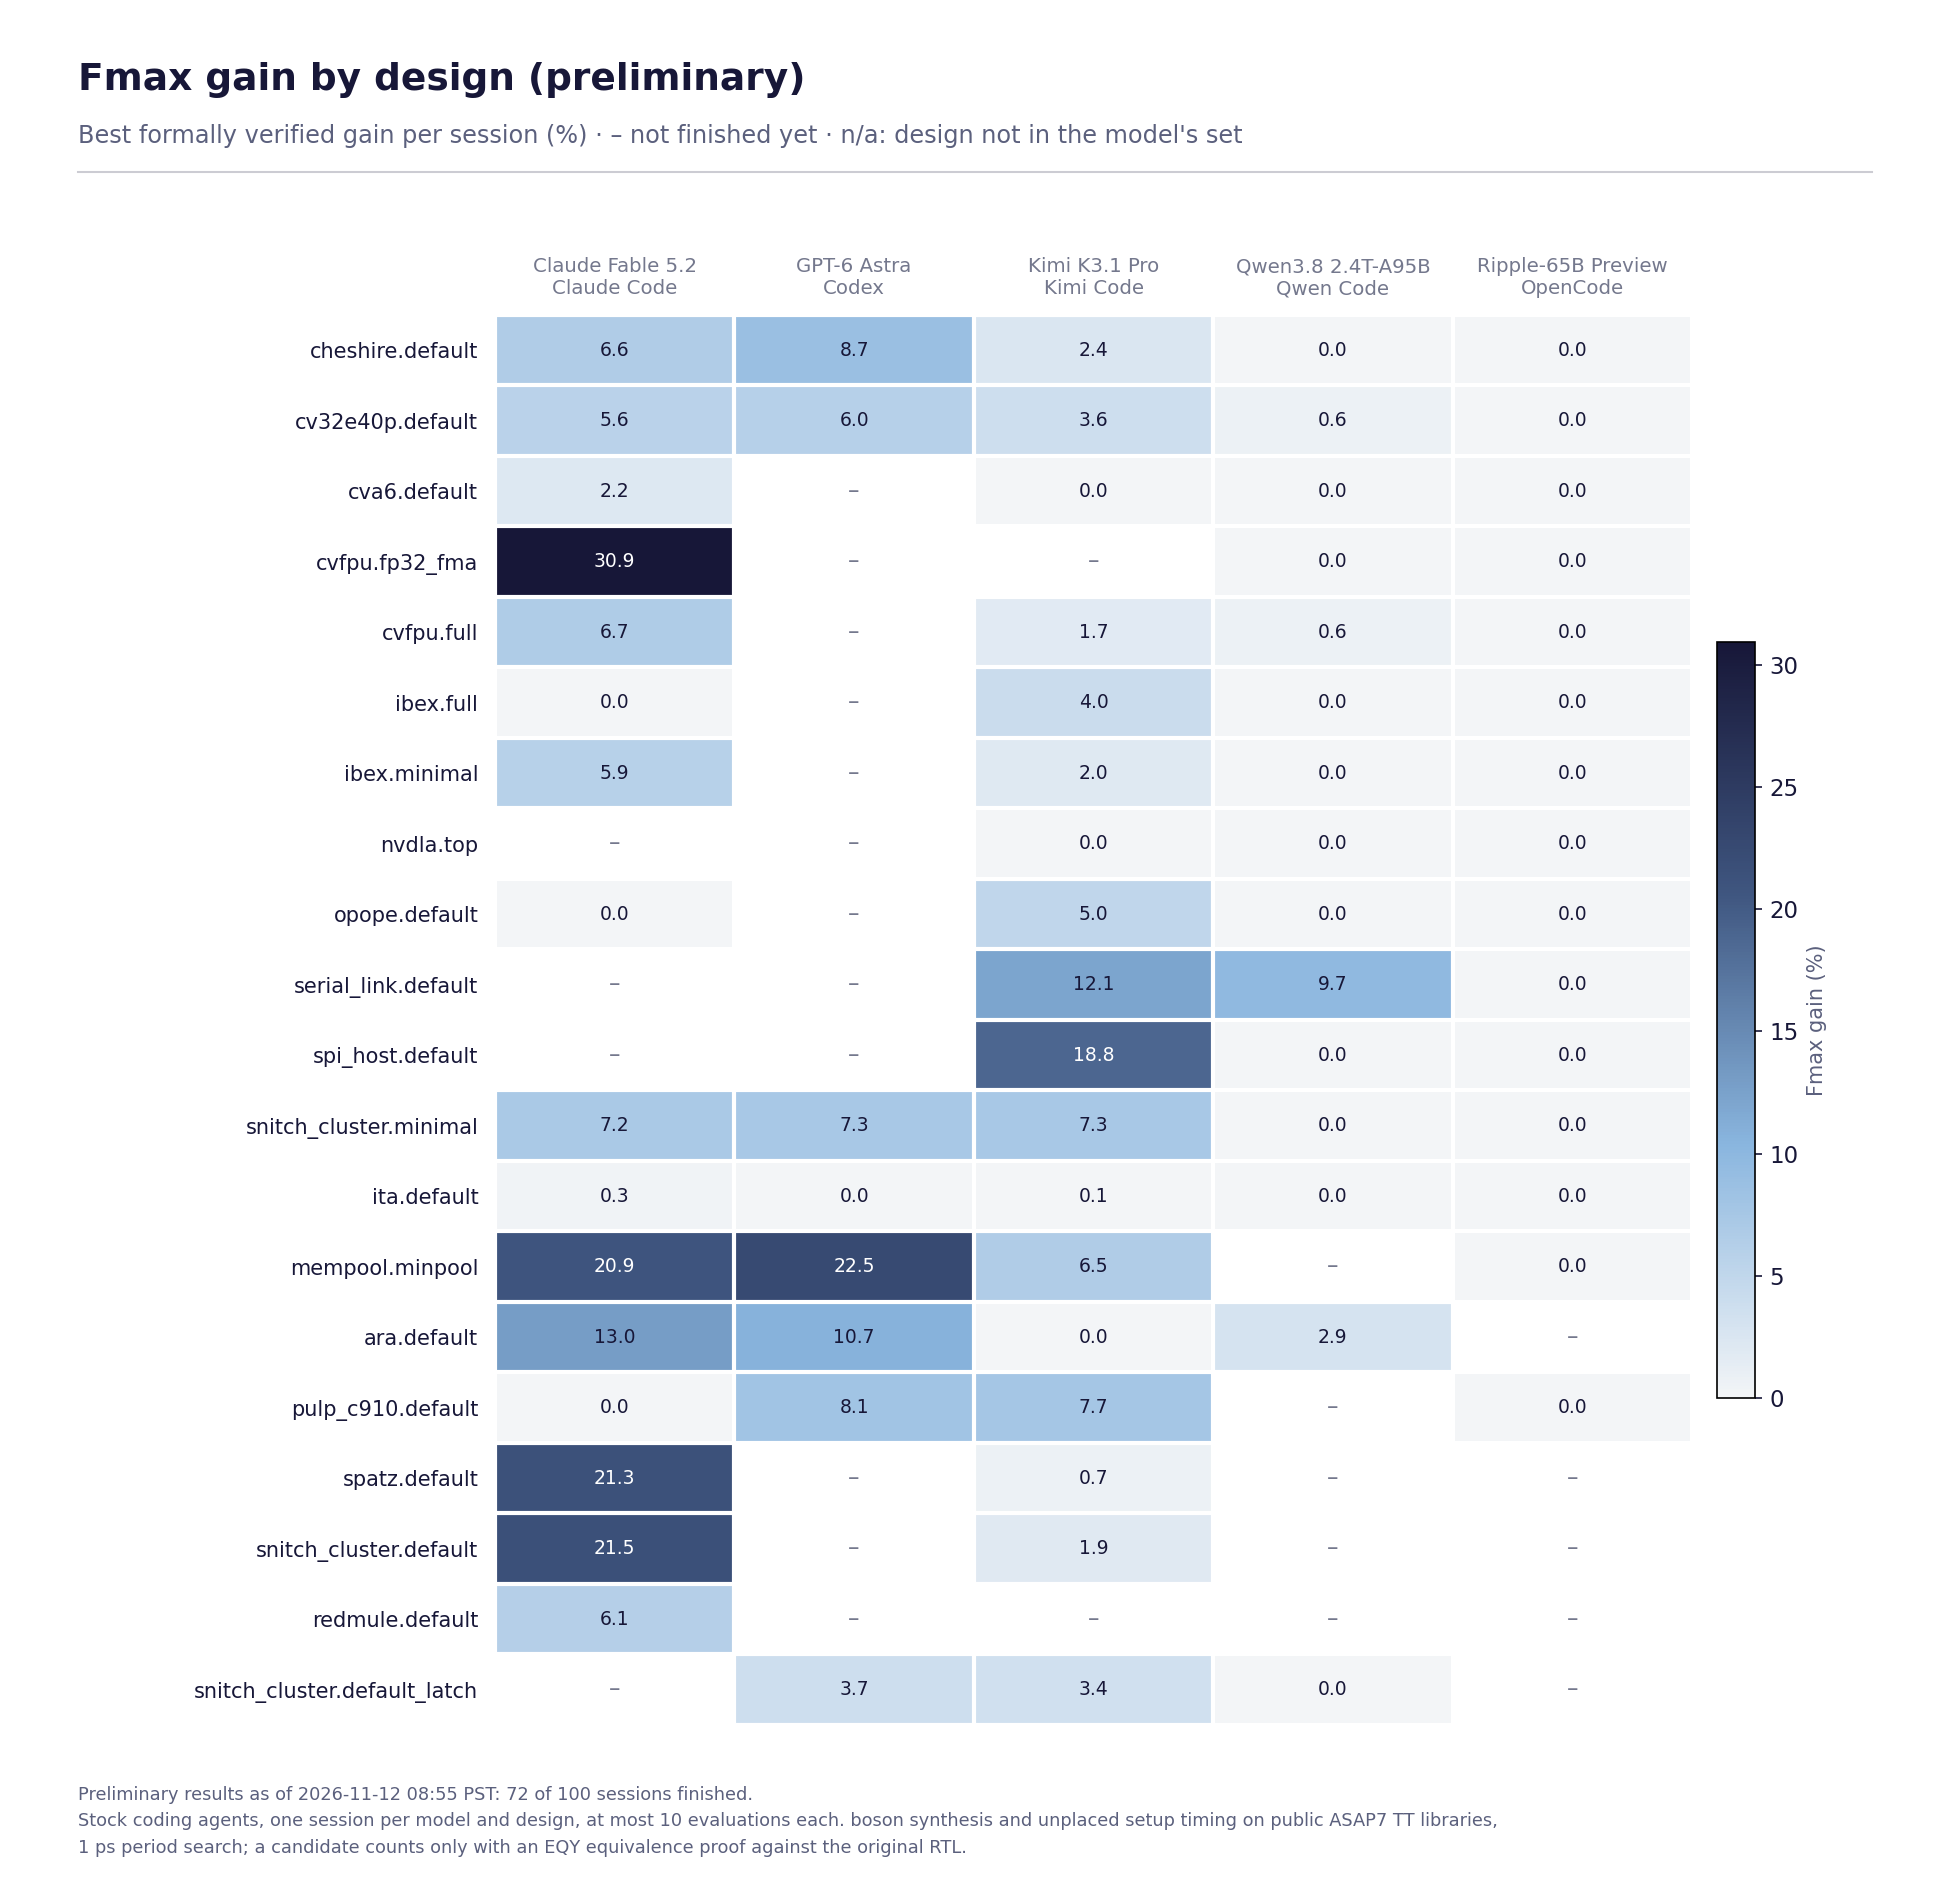
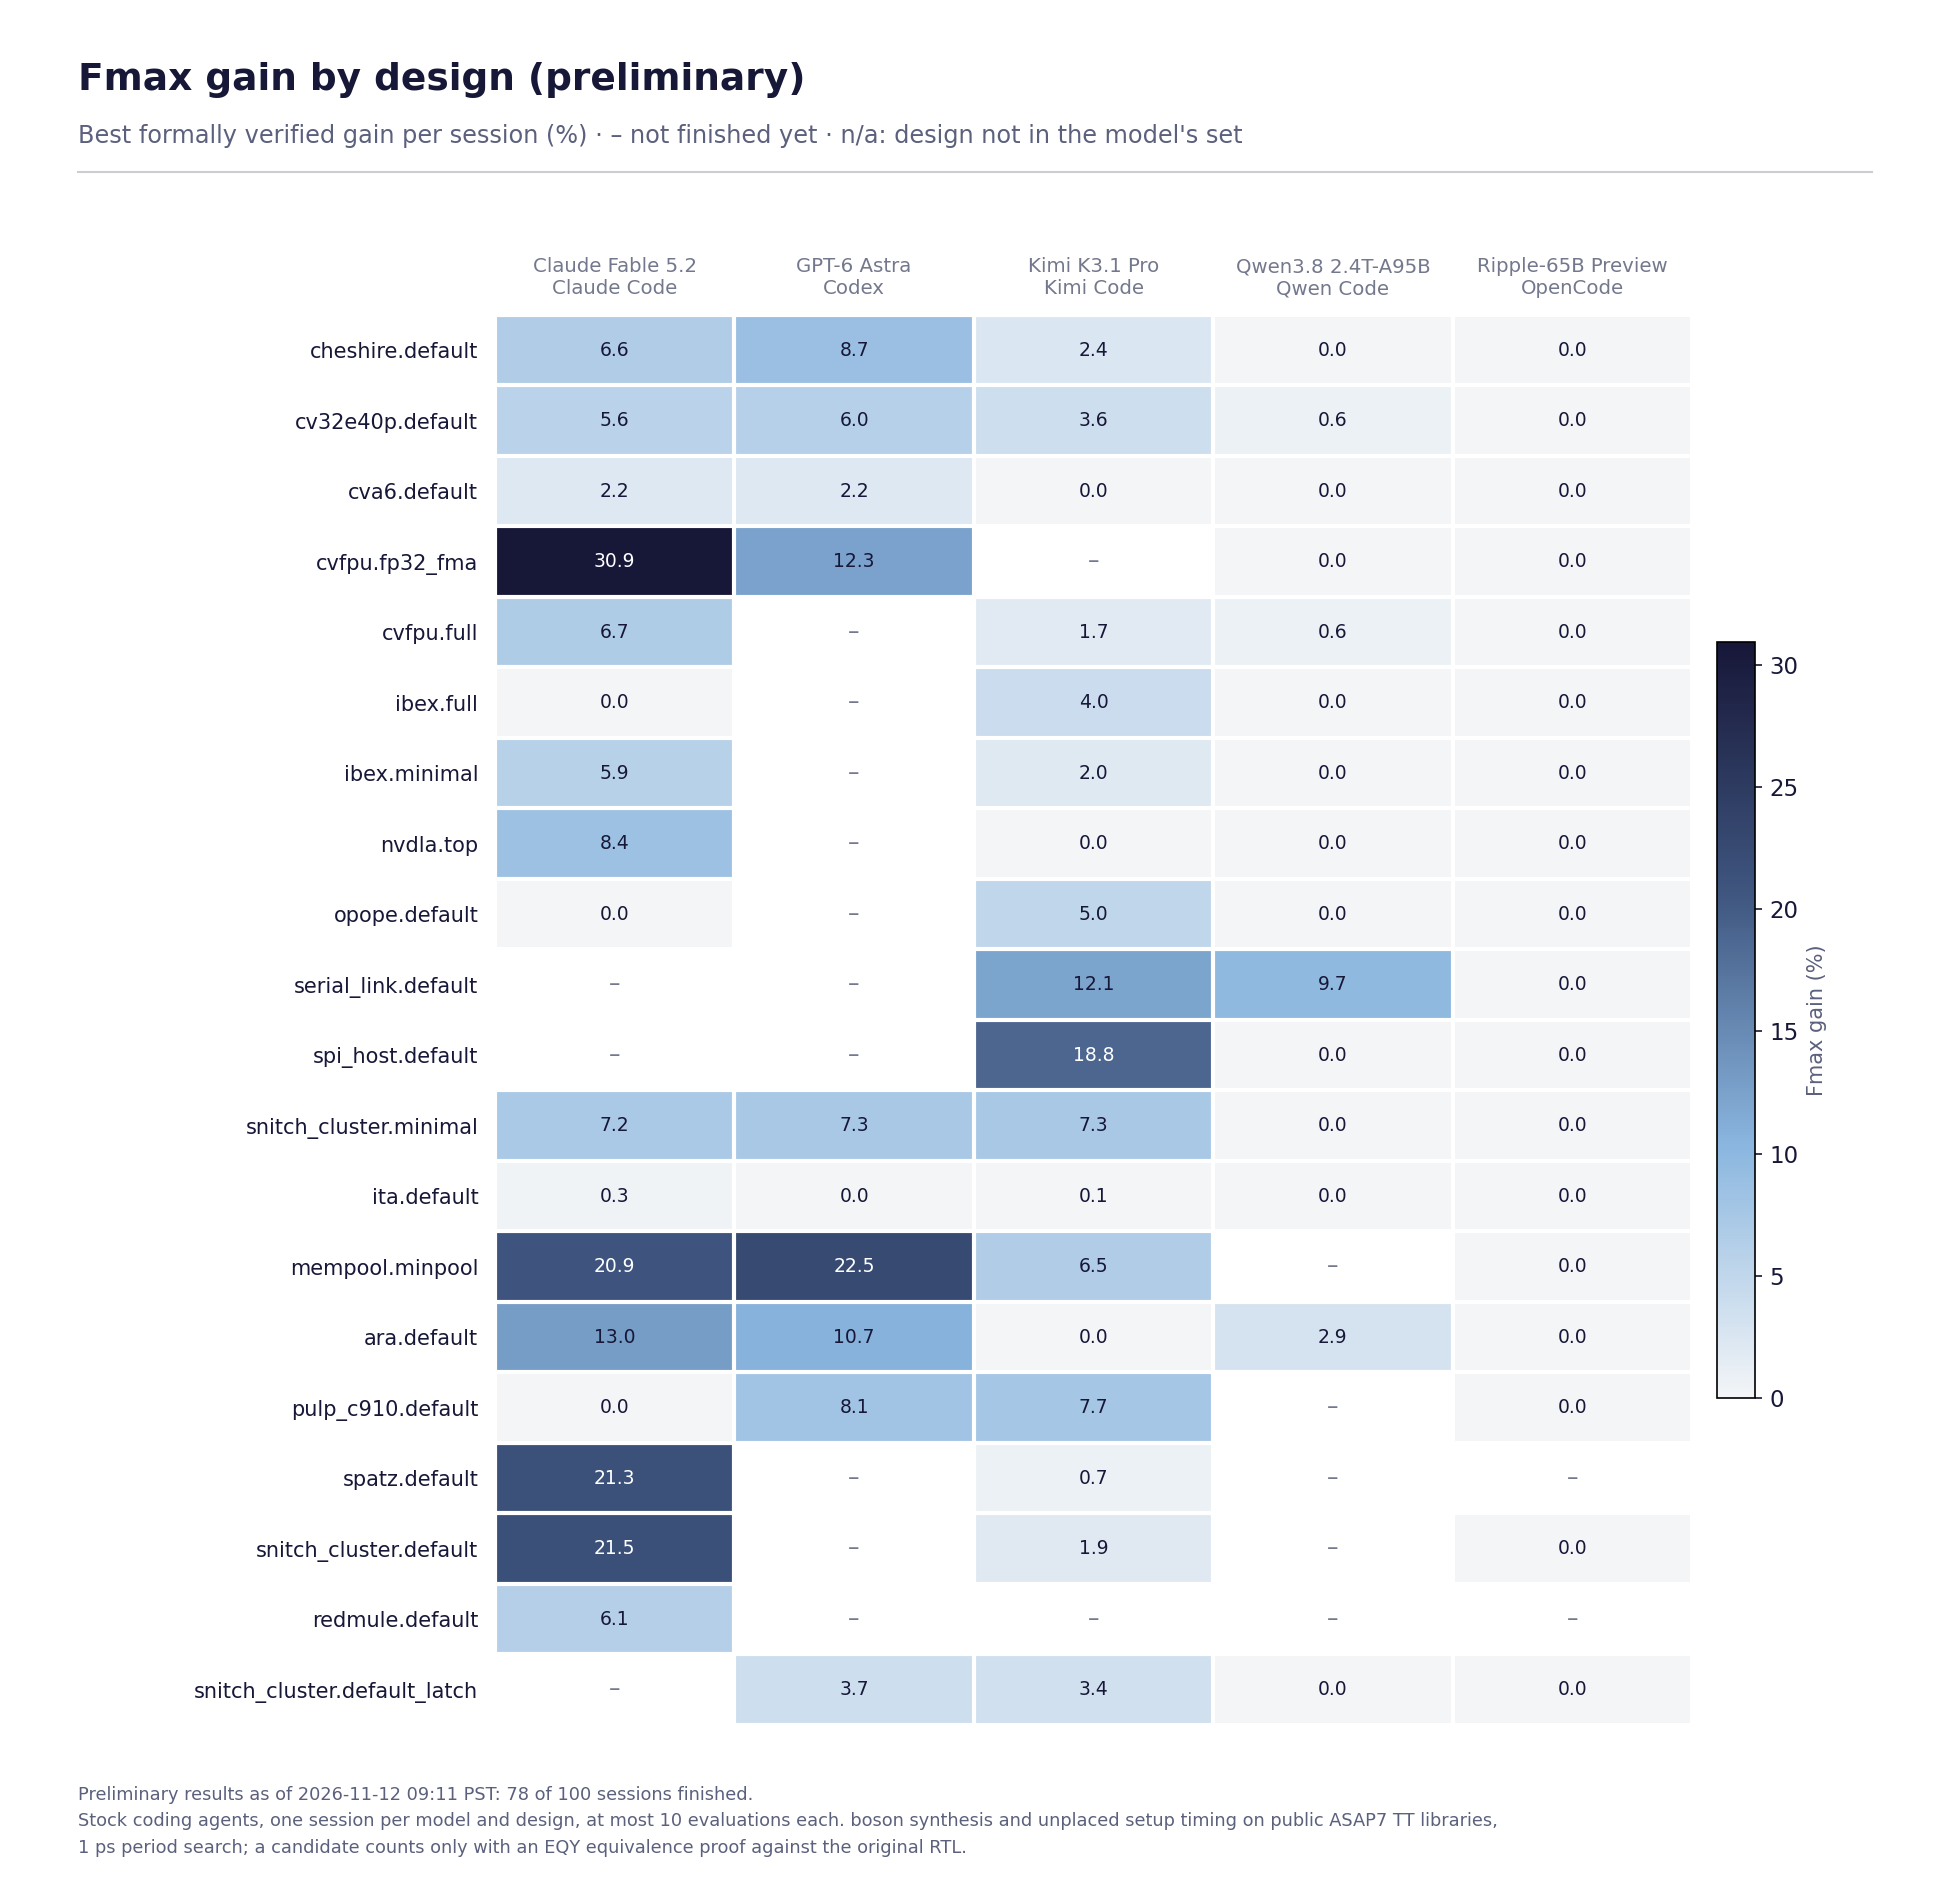
Refresh preliminary results: 78 of 100 sessions finished
Data as of 2026-11-12 09:11 PST.

Changed region(s): [[0.3692, 0.2185, 0.5231, 0.3122], [0.2462, 0.4058, 0.4, 0.4683]]

diff --git a/README.md b/README.md
@@ -21,27 +21,27 @@ accepted only when it is proven equivalent and faster than the session's best so
 ## Results
 
 <!-- results:start -->
-**Status:** 72 of 100 sessions finished (5 models, 20 designs), as of 2026-11-12 08:55 PST. 11 interrupted attempts are excluded from these results while awaiting a valid replacement.
+**Status:** 78 of 100 sessions finished (5 models, 20 designs), as of 2026-11-12 09:11 PST. 11 interrupted attempts are excluded from these results while awaiting a valid replacement.
 
 ### Coverage
 
 | Model | Developer | Harness | Access | Sessions finished |
 |---|---|---|---|---:|
-| Claude Fable 5.2 | Anthropic | Claude Code 2.1.322 | Official CLI signed in to a subscription | 16 / 20 |
-| GPT-6 Astra | OpenAI | Codex 0.154.0 | Official CLI signed in to a subscription | 8 / 20 |
+| Claude Fable 5.2 | Anthropic | Claude Code 2.1.322 | Official CLI signed in to a subscription | 17 / 20 |
+| GPT-6 Astra | OpenAI | Codex 0.154.0 | Official CLI signed in to a subscription | 10 / 20 |
 | Kimi K3.1 Pro | Moonshot AI | Kimi Code 2.5.2 | OpenRouter, pinned to Moonshot AI's own endpoint (MXFP4), fallbacks disabled | 18 / 20 |
 | Qwen3.8 2.4T-A95B | Qwen (Alibaba) | Qwen Code 0.27.1 | OpenRouter, one pinned provider (SiliconFlow, FP8) | 15 / 20 |
-| Ripple-65B Preview | Ricursive AI | OpenCode 1.19.5 | Self-hosted (SGLang 0.5.19, BF16) for its first 15 designs; OpenRouter pinned to PrimeIntellect (BF16) for later sessions | 15 / 20 |
+| Ripple-65B Preview | Ricursive AI | OpenCode 1.19.5 | Self-hosted (SGLang 0.5.19, BF16) for its first 15 designs; OpenRouter pinned to PrimeIntellect (BF16) for later sessions | 18 / 20 |
 
 ### Results by model
 
 | Model | Harness | Designs finished | Fmax gain (geomean) | Designs improved | Mean evaluations | Candidates not proven |
 |---|---|---:|---:|---:|---:|---:|
-| Claude Fable 5.2 | Claude Code | 16 / 20 | +8.90% | 13 / 16 | 4.7 | 39% (29 / 75) |
-| GPT-6 Astra | Codex | 8 / 20 | +8.21% | 7 / 8 | 7.8 | 31% (19 / 62) |
+| Claude Fable 5.2 | Claude Code | 17 / 20 | +8.87% | 14 / 17 | 4.8 | 41% (33 / 81) |
+| GPT-6 Astra | Codex | 10 / 20 | +8.00% | 9 / 10 | 8.2 | 27% (22 / 82) |
 | Kimi K3.1 Pro | Kimi Code | 18 / 20 | +4.20% | 15 / 18 | 5.7 | 59% (61 / 103) |
 | Qwen3.8 2.4T-A95B | Qwen Code | 15 / 20 | +0.89% | 4 / 15 | 1.4 | 76% (16 / 21) |
-| Ripple-65B Preview | OpenCode | 15 / 20 | +0.00% | 0 / 15 | 0.2 | 100% (3 / 3) |
+| Ripple-65B Preview | OpenCode | 18 / 20 | +0.00% | 0 / 18 | 0.2 | 100% (3 / 3) |
 
 Fmax gain is the geometric mean of each finished session's Fmax ratio (baseline period / best accepted period) over the designs that model has finished. Models have finished different designs, so this order is provisional, not a like-for-like ranking, until every model covers the same designs. "Candidates not proven" is the share of evaluations whose equivalence proof did not pass.
 
@@ -51,34 +51,33 @@ Fmax gain is the geometric mean of each finished session's Fmax ratio (baseline 
 |---|---:|---:|---:|---:|---|
 | `cheshire.default` | 1.047 | 5 | 0.963 | +8.72% | GPT-6 Astra |
 | `cv32e40p.default` | 0.657 | 5 | 0.620 | +5.97% | GPT-6 Astra |
-| `cva6.default` | 1.038 | 4 | 1.016 | +2.17% | Claude Fable 5.2 |
-| `cvfpu.fp32_fma` | 1.401 | 3 | 1.070 | +30.93% | Claude Fable 5.2 |
+| `cva6.default` | 1.038 | 5 | 1.016 | +2.17% | Claude Fable 5.2, GPT-6 Astra |
+| `cvfpu.fp32_fma` | 1.401 | 4 | 1.070 | +30.93% | Claude Fable 5.2 |
 | `cvfpu.full` | 2.114 | 4 | 1.981 | +6.71% | Claude Fable 5.2 |
 | `ibex.full` | 0.935 | 4 | 0.899 | +4.00% | Kimi K3.1 Pro |
 | `ibex.minimal` | 0.716 | 4 | 0.676 | +5.92% | Claude Fable 5.2 |
-| `nvdla.top` | 0.789 | 3 | 0.789 | +0.00% | no improvement yet |
+| `nvdla.top` | 0.789 | 4 | 0.728 | +8.38% | Claude Fable 5.2 |
 | `opope.default` | 0.857 | 4 | 0.816 | +5.02% | Kimi K3.1 Pro |
 | `serial_link.default` | 0.305 | 3 | 0.272 | +12.13% | Kimi K3.1 Pro |
 | `spi_host.default` | 0.475 | 3 | 0.400 | +18.75% | Kimi K3.1 Pro |
 | `snitch_cluster.minimal` | 1.288 | 5 | 1.200 | +7.33% | GPT-6 Astra, Kimi K3.1 Pro |
 | `ita.default` | 0.903 | 5 | 0.900 | +0.33% | Claude Fable 5.2 |
 | `mempool.minpool` | 2.869 | 4 | 2.342 | +22.50% | GPT-6 Astra |
-| `ara.default` | 1.064 | 4 | 0.942 | +12.95% | Claude Fable 5.2 |
+| `ara.default` | 1.064 | 5 | 0.942 | +12.95% | Claude Fable 5.2 |
 | `pulp_c910.default` | 1.005 | 4 | 0.930 | +8.06% | GPT-6 Astra |
 | `spatz.default` | 2.266 | 2 | 1.868 | +21.31% | Claude Fable 5.2 |
-| `snitch_cluster.default` | 2.128 | 2 | 1.751 | +21.53% | Claude Fable 5.2 |
+| `snitch_cluster.default` | 2.128 | 3 | 1.751 | +21.53% | Claude Fable 5.2 |
 | `redmule.default` | 1.636 | 1 | 1.542 | +6.10% | Claude Fable 5.2 |
-| `snitch_cluster.default_latch` | 2.169 | 3 | 2.091 | +3.73% | GPT-6 Astra |
+| `snitch_cluster.default_latch` | 2.169 | 4 | 2.091 | +3.73% | GPT-6 Astra |
 
 ### Early observations
 
 Counts over every finished session of the models above. They describe what happened; with one session per model and design they do not establish causes or rankings.
 
-- 264 candidates evaluated: 93 accepted, 42 proven equivalent but not faster than the session's best, 128 not proven (91 with a partition EQY could not prove, 21 at the proof deadline, 16 over the proof memory budget), 1 failed to compile or measure.
-- Of 72 finished sessions, 45 ended with the agent finishing on its own, 26 ran to the time budget and 1 ended with an agent error.
-- Sessions used 3.7 of the 10 allowed evaluations on average; 6 used all 10.
+- 290 candidates evaluated: 100 accepted, 54 proven equivalent but not faster than the session's best, 135 not proven (98 with a partition EQY could not prove, 21 at the proof deadline, 16 over the proof memory budget), 1 failed to compile or measure.
+- Of 78 finished sessions, 51 ended with the agent finishing on its own, 26 ran to the time budget and 1 ended with an agent error.
+- Sessions used 3.7 of the 10 allowed evaluations on average; 8 used all 10.
 - Largest single gain so far: `cvfpu.fp32_fma` by Claude Fable 5.2, 1.401 ns to 1.070 ns (+30.93% Fmax).
-- No finished session has improved `nvdla.top` yet.
 <!-- results:end -->
 
 ## Charts
